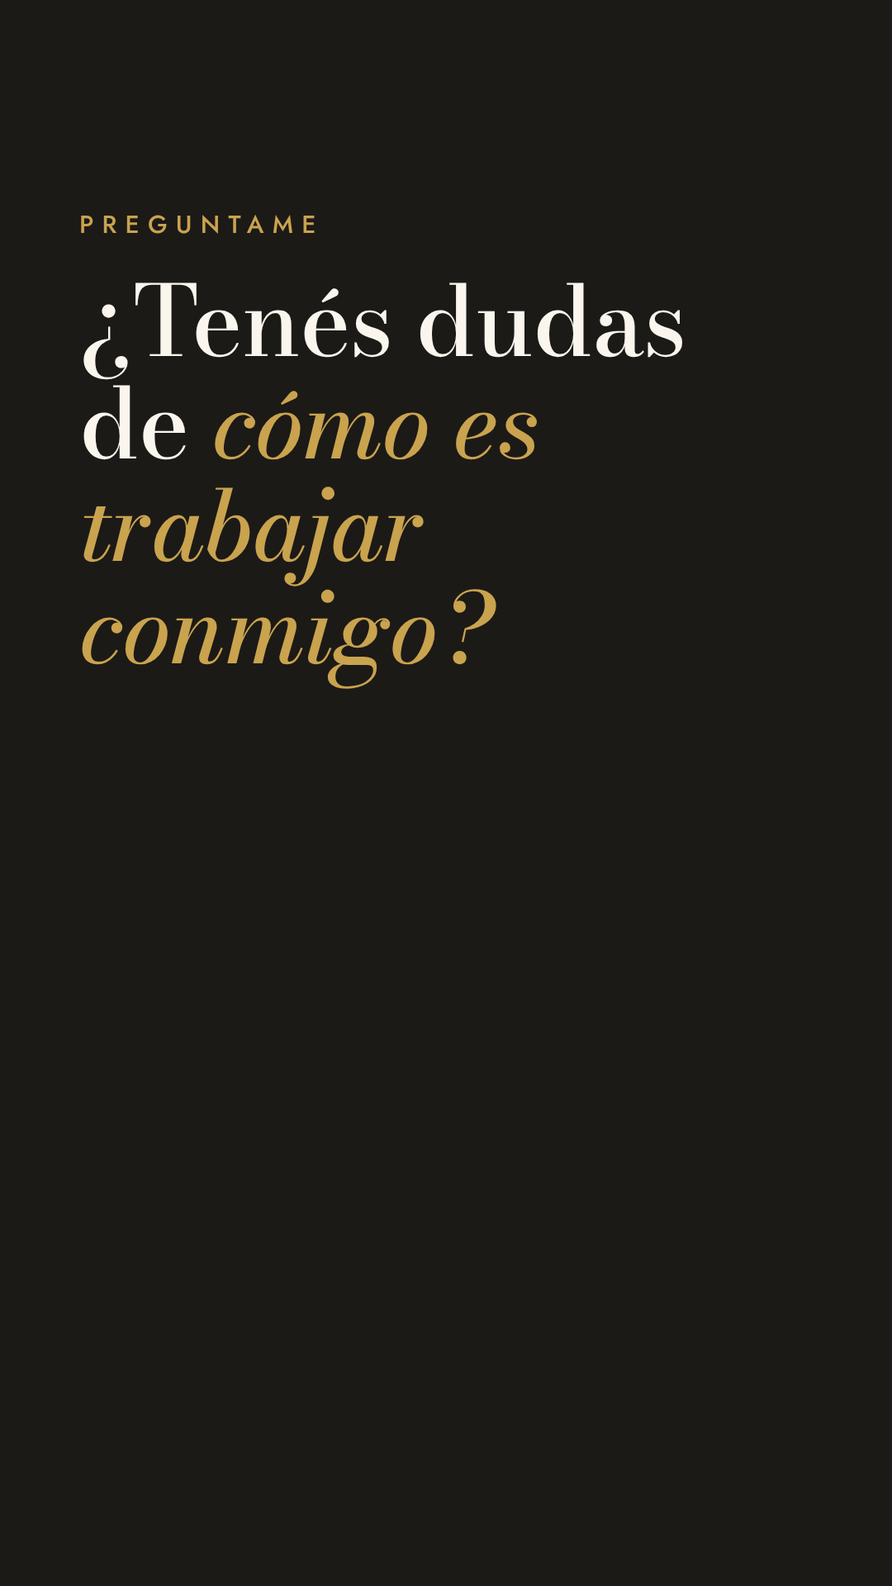
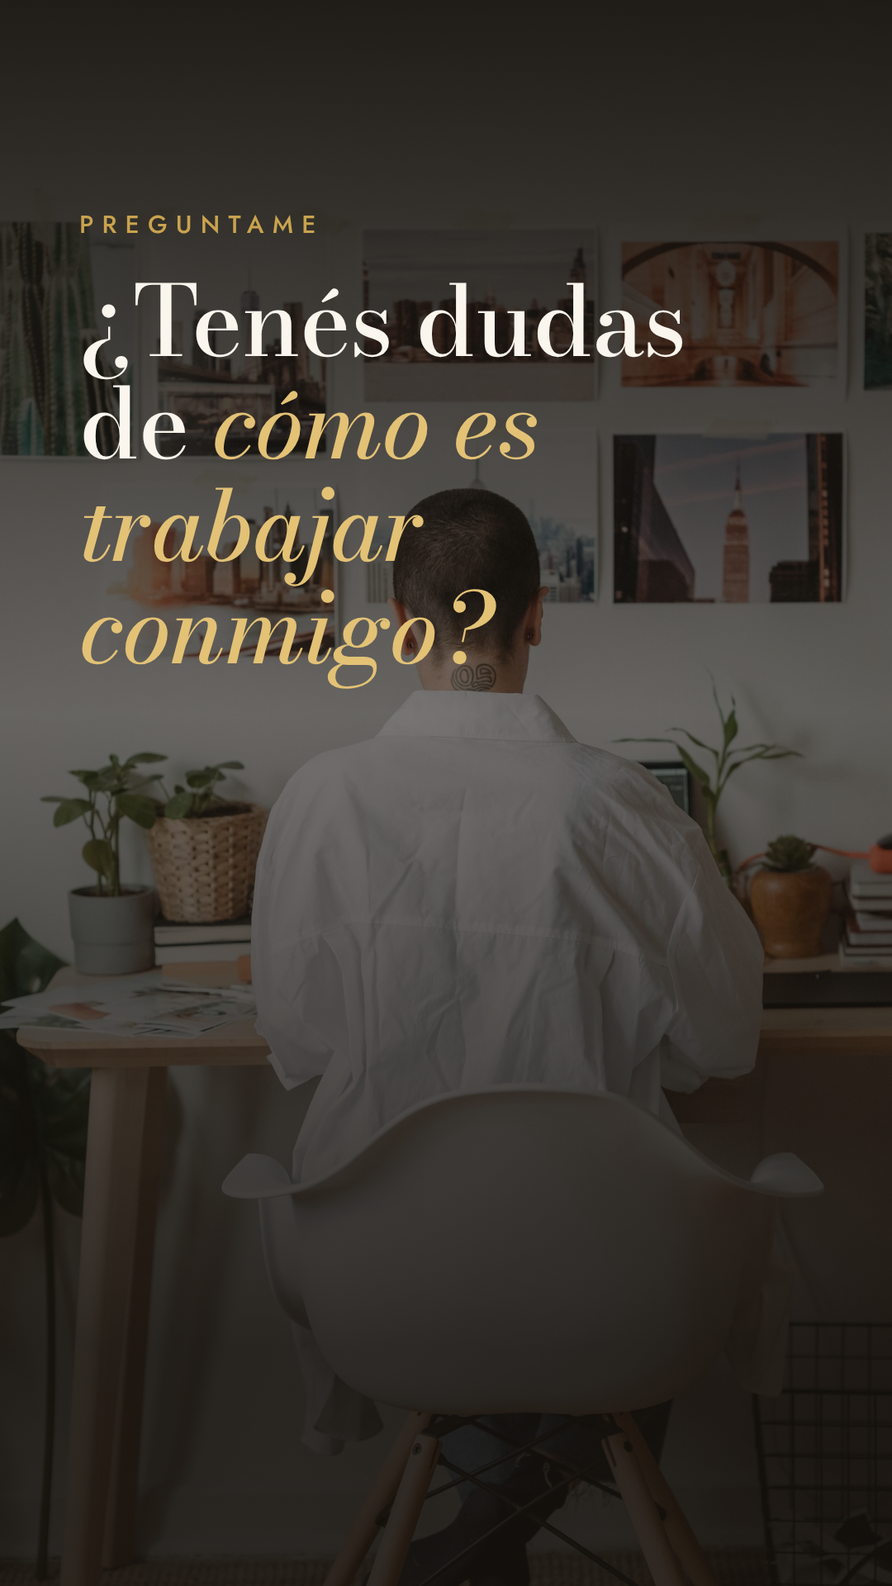
Historias de Gold Studio con fotos, mockups de la web y la app, y gráficos
Claude-Session: https://claude.ai/code/session_01MqSuY797qLSbTTpQyvUeTv

diff --git a/contenido/scripts/historias_destacadas.py b/contenido/scripts/historias_destacadas.py
@@ -54,76 +54,113 @@ for k in ICON:
     S[f'portada-marfil-{k}'] = cover(k, '#FAF6EE', '#C9A34E', '#B8923A')
     S[f'portada-negra-{k}'] = cover(k, '#1C1A17', '#C9A34E', '#C9A34E')
 
-# ---------- historias para cada destacada ----------
-SERV = [('Páginas web', 'Para que te encuentren y te escriban.'), ('Apps a medida', 'Turnos, clientes y archivos en un lugar.'),
-        ('Tiendas online', 'Tu catálogo vendiendo las 24 horas.'), ('Branding y logos', 'Una identidad que se recuerda.'),
-        ('Community manager', 'Tus redes lindas y constantes.')]
-S['servicios-1'] = st('m', f'''<div class="eb">Servicios</div><h1>Todo lo que tu marca necesita para <em>brillar.</em></h1>
-  <div class="list">{''.join(f'<div class="it"><i>{SP}</i><div><b>{a}</b><span>{b}</span></div></div>' for a, b in SERV)}</div>''')
-S['servicios-2'] = st('n', f'''<div class="eb">Contame</div><h1>¿Qué necesita <em>tu marca</em> hoy?</h1>
-  <p class="lead">Votá y te cuento por dónde empezar.</p>{hole(520)}''')
-S['trabajos-1'] = st('m', f'''<div class="eb">Trabajo destacado</div><h1>Una app a medida para un <em>consultorio de nutrición.</em></h1>
-  <div class="row" style="margin-top:70px;justify-content:center">{phone(APP, 470, -3)}</div>''')
+# ---------- fotos y capturas ----------
+EST = lambda i: b64(f'{SCR}/estudio/{i}.jpg', 'image/jpeg')       # Pexels: escritorio de diseñadora, sin caras
+F_TECLADO, F_TABLET, F_TABLET2, F_ESPALDA, F_PLANTAS, F_PARED = EST(7015029), EST(7015034), EST(7015038), EST(7015031), EST(7015024), EST(7015037)
+WEB_M, WEB_D = b64(f'{SCR}/web/movil.png', 'image/png'), b64(f'{SCR}/web/compu.png', 'image/png')
+CAFE7, BURG7, CAFE3, BURG3 = (b64(f'{REPO}/contenido/carruseles/feed-{n}/0{i}.png', 'image/png') for n, i in [('cafeteria', 7), ('hamburgueseria', 7), ('cafeteria', 3), ('hamburgueseria', 3)])
+CAFE_F = [b64(f'{SCR}/pexels/{i}.jpg', 'image/jpeg') for i in (4792689, 4792687, 4792692)]
+BURG_F = [b64(f'{SCR}/burger/{i}.jpg', 'image/jpeg') for i in ('prod_flota', 8477224, 'prod_bacon')]
+
+def bgphoto(img, pos='center', dark=.55, grad=True):
+    sh = (f'linear-gradient(rgba(20,16,12,{min(.92, dark+.2)}),rgba(20,16,12,{dark*.75}) 45%,rgba(20,16,12,{min(.92, dark+.15)}) 85%)' if grad
+          else f'linear-gradient(rgba(20,16,12,{dark}),rgba(20,16,12,{dark}))')
+    return f'<div style="position:absolute;inset:0;background:{sh},url({img}) {pos}/cover no-repeat;z-index:0"></div>'
+def ph(img, h, pos='center', r=28, extra=''):
+    return f'<div style="height:{h}px;border-radius:{r}px;background:url({img}) {pos}/cover no-repeat;{extra}"></div>'
+def laptop(img, w=760):
+    return (f'<div style="width:{w}px"><div style="background:#1b1b1b;border-radius:{w*.03:.0f}px {w*.03:.0f}px 0 0;padding:{w*.022:.0f}px">'
+            f'<div style="aspect-ratio:16/10;background:url({img}) top/cover"></div></div>'
+            f'<div style="height:{w*.035:.0f}px;background:linear-gradient(#cfcac2,#a9a49c);border-radius:0 0 {w*.04:.0f}px {w*.04:.0f}px;margin:0 -{w*.06:.0f}px"></div></div>')
+def phone2(img, w=300, rot=0, pos='top'):
+    return (f'<div style="width:{w}px;border-radius:{w*.14:.0f}px;background:#111;padding:{w*.035:.0f}px;transform:rotate({rot}deg);box-shadow:0 40px 80px -30px rgba(0,0,0,.55)">'
+            f'<div style="border-radius:{w*.11:.0f}px;aspect-ratio:9/19.5;background:url({img}) {pos}/cover"></div></div>')
+def sticker(txt, rot=-4):
+    return f'<div class="stk" style="transform:rotate({rot}deg)">{txt}</div>'
+
+SERV = [('Páginas web', 'Para que te encuentren y te escriban.', WEB_D, '70% top'), ('Apps a medida', 'Turnos, clientes y archivos en un lugar.', APP, 'top'),
+        ('Tiendas online', 'Tu catálogo vendiendo las 24 horas.', BURG_F[2], 'center'), ('Branding y logos', 'Una identidad que se recuerda.', CAFE3, 'center 60%'),
+        ('Community manager', 'Tus redes lindas y constantes.', CAFE7, 'center 70%')]
+S['servicios-1'] = st('m', f'''<div class="eb">Servicios</div><h1 style="font-size:100px">Todo lo que tu marca necesita para <em>brillar.</em></h1>
+  <div class="list2">{''.join(f'<div class="it2">{ph(img, 150, pos, 22, "width:150px;flex:none")}<div><b>{a}</b><span>{b}</span></div></div>' for a, b, img, pos in SERV)}</div>''')
+S['servicios-2'] = st('n', f'''{bgphoto(F_TABLET, "center 60%", .7)}<div class="z"><div class="eb">Contame</div><h1>¿Qué necesita <em>tu marca</em> hoy?</h1>
+  <p class="lead">Votá y te cuento por dónde empezar.</p></div>''')
+S['trabajos-1'] = st('m', f'''<div class="eb">Trabajo destacado</div><h1 style="font-size:100px">Una app a medida para un <em>consultorio de nutrición.</em></h1>
+  <div style="position:relative;margin-top:90px;height:820px">
+    <div style="position:absolute;left:-10px;top:60px">{laptop(PANEL, 820)}</div>
+    <div style="position:absolute;right:-20px;top:170px">{phone2(APP, 290, 4)}</div>
+    <div style="position:absolute;left:20px;top:600px">{sticker("Compu y celular", -5)}</div></div>''')
 S['trabajos-2'] = st('n', f'''<div class="eb">Qué hace</div><h1 style="font-size:96px">Cada paciente tiene <em>su cuenta.</em></h1>
-  <div class="chips">{''.join(f'<span>{t}</span>' for t in ['Planes en PDF', 'Recetarios', 'Seguimiento de peso', 'Turnos', 'Mensajes', 'Cuentas privadas'])}</div>
-  <div style="margin-top:60px">{card(PANEL, 880)}</div><p class="small">Las capturas usan datos inventados.</p>''')
-S['trabajos-3'] = st('g', f'''<div class="mid"><div class="spk">{SP}</div><h1>¿Querés ver <em>la demo?</em></h1>
-  <p class="lead">Tocá el link y probala vos.</p>{hole(220, w=640)}</div>''')
-PASOS = [('Charlamos', 'Me contás tu idea y tu negocio. Sin tecnicismos.'), ('Diseño', 'Te muestro una propuesta con tus colores y tu estilo.'),
-         ('Lo construyo', 'Te voy mostrando avances para que lo veas crecer.'), ('Lo lanzamos', 'Lo publico, te enseño a usarlo y te acompaño.')]
-S['proceso-1'] = st('m', f'''<div class="eb">Cómo trabajo</div><h1>Simple, cercano y <em>sin vueltas.</em></h1>
-  <div class="steps">{''.join(f'<div class="stp">{num(i+1)}<div><b>{a}</b><span>{b}</span></div></div>' for i, (a, b) in enumerate(PASOS))}</div>''')
-S['proceso-2'] = st('n', f'''<div class="eb">Preguntame</div><h1>¿Tenés dudas de <em>cómo es trabajar conmigo?</em></h1>{hole(560)}''')
+  <div style="display:flex;gap:40px;margin-top:70px;align-items:flex-start">{phone2(APP, 360, -3)}
+  <div class="feat">{''.join(f'<div><i>{SP}</i>{t}</div>' for t in ['Planes en PDF', 'Recetarios', 'Seguimiento de peso', 'Turnos', 'Mensajes', 'Cuentas privadas'])}</div></div>
+  <p class="small" style="margin-top:50px">Las capturas usan datos inventados.</p>''')
+S['trabajos-3'] = st('n', f'''{bgphoto(F_TECLADO, "center 40%", .62)}<div class="z mid"><div class="spk">{SP}</div><h1>¿Querés ver <em>la demo?</em></h1>
+  <p class="lead" style="color:#EFE7DA">Tocá el link y probala vos.</p>{hole(220, w=640)}</div>''')
+PASOS = [('Charlamos', 'Me contás tu idea y tu negocio. Sin tecnicismos.', F_TECLADO, 'center 60%'),
+         ('Diseño', 'Te muestro una propuesta con tus colores y tu estilo.', F_TABLET, 'center 65%'),
+         ('Lo construyo', 'Te voy mostrando avances para que lo veas crecer.', F_TABLET2, 'center 40%'),
+         ('Lo lanzamos', 'Lo publico, te enseño a usarlo y te acompaño.', WEB_D, '70% top')]
+S['proceso-1'] = st('m', f'''<div class="eb">Cómo trabajo</div><h1 style="font-size:100px">Simple, cercano y <em>sin vueltas.</em></h1>
+  <div class="tl">{''.join(f'<div class="tli">{ph(img, 200, pos, 24, "width:200px;flex:none")}<div><div class="n2">0{i+1}</div><b>{a}</b><span>{b}</span></div></div>' for i, (a, b, img, pos) in enumerate(PASOS))}</div>''')
+S['proceso-2'] = st('n', f'''{bgphoto(F_ESPALDA, "center 30%", .72)}<div class="z"><div class="eb">Preguntame</div><h1>¿Tenés dudas de <em>cómo es trabajar conmigo?</em></h1></div>''')
 PAQ = [('Página web', 'Para que tus clientes te encuentren, vean lo que hacés y te escriban.',
-        ['Diseño a medida con tu estilo', 'Servicios, trabajos y contacto', 'Botón directo a WhatsApp', 'Perfecta en el celular', 'La publico por vos']),
+        ['Diseño a medida con tu estilo', 'Servicios, trabajos y contacto', 'Botón directo a WhatsApp', 'Perfecta en el celular', 'La publico por vos'],
+        f'<div style="position:relative;height:560px"><div style="position:absolute;left:0;top:30px">{laptop(WEB_D, 700)}</div><div style="position:absolute;right:0;top:0">{phone2(WEB_M, 250, 5)}</div></div>'),
        ('Branding', 'Para que tu marca se reconozca y se vea linda en todos lados.',
-        ['Logo y sus variantes', 'Paleta y tipografías', 'Foto de perfil', 'Portadas de destacadas', 'Archivos listos para usar']),
+        ['Logo y sus variantes', 'Paleta y tipografías', 'Foto de perfil', 'Portadas de destacadas', 'Archivos listos para usar'],
+        f'<div style="display:flex;justify-content:center;gap:24px">{card(CAFE3, 400, -3)}{card(BURG3, 400, 3)}</div>'),
        ('Community manager', 'Para que tu Instagram sea lindo y constante, sin que te ocupe tiempo.',
-        ['Plan de contenido mensual', 'Posteos e historias', 'Textos para cada publicación', 'Feed y destacadas ordenados', 'Resumen de cómo le fue a tu cuenta'])]
-for i, (t, d, items) in enumerate(PAQ):
-    S[f'paquetes-{i+1}'] = st(['m', 'n', 'm'][i], f'''<div class="eb">Paquete {i+1} de 3</div><h1 style="font-size:116px"><em>{t}</em></h1>
-  <p class="lead" style="margin-top:30px">{d}</p>
-  <div class="box">{''.join(f'<div class="ck"><i>{SP}</i>{x}</div>' for x in items)}</div>{hole(200, w=640)}''')
-S['paquetes-4'] = st('g', f'''<div class="mid"><div class="eb" style="color:#1C1A17">Precio de lanzamiento</div>
-  <h1>Los primeros proyectos tienen <em>precio especial.</em></h1><p class="lead">Escribime y te armo un presupuesto según lo que necesites.</p>{hole(220, w=640)}</div>''')
-S['sobre-1'] = st('n', f'''<div class="mid"><div style="width:700px">{LOGO_W}</div>
-  <h1 style="font-size:96px;margin-top:80px">Cada marca tiene algo que la hace brillar. <em>Mi trabajo es que se note.</em></h1></div>''')
+        ['Plan de contenido mensual', 'Posteos e historias', 'Textos para cada publicación', 'Feed y destacadas ordenados', 'Resumen de cómo le fue a tu cuenta'],
+        f'<div style="display:flex;justify-content:center;gap:24px">{card(CAFE7, 400, -3)}{card(BURG7, 400, 3)}</div>')]
+for i, (t, d, items, vis) in enumerate(PAQ):
+    S[f'paquetes-{i+1}'] = st(['m', 'n', 'm'][i], f'''<div class="eb">Paquete {i+1} de 3</div><h1 style="font-size:110px"><em>{t}</em></h1>
+  <p class="lead" style="margin-top:24px;font-size:40px">{d}</p><div style="margin-top:50px">{vis}</div>
+  <div class="box" style="margin-top:50px;padding:40px 50px;gap:20px">{''.join(f'<div class="ck" style="font-size:38px"><i>{SP}</i>{x}</div>' for x in items)}</div>''')
+S['paquetes-4'] = st('g', f'''{bgphoto(F_TABLET2, "center 50%", .25, grad=False)}<div class="z mid" style="background:#C9A34E;border-radius:44px;padding:80px 60px;margin:auto 0">
+  <div class="eb" style="color:#1C1A17">Precio de lanzamiento</div><h1 style="font-size:104px">Los primeros proyectos tienen <em>precio especial.</em></h1>
+  <p class="lead" style="color:#3B3122">Escribime y te armo un presupuesto según lo que necesites.</p></div>''')
+S['sobre-1'] = st('n', f'''{bgphoto(F_ESPALDA, "center 35%", .78)}<div class="z mid"><div style="width:640px">{LOGO_W}</div>
+  <h1 style="font-size:92px;margin-top:80px">Cada marca tiene algo que la hace brillar. <em>Mi trabajo es que se note.</em></h1></div>''')
+VALS = [('A medida', 'Nada de plantillas iguales a todas.', F_TABLET), ('Cercana', 'Me escribís y te respondo yo.', F_TECLADO), ('Con detalle', 'Lo lindo también tiene que funcionar.', F_PLANTAS)]
 S['sobre-2'] = st('m', f'''<div class="eb">Cómo soy trabajando</div>
-  <div class="vals">{''.join(f'<div class="v"><i>{SP}</i><b>{a}</b><span>{b}</span></div>' for a, b in [('A medida', 'Nada de plantillas iguales a todas.'), ('Cercana', 'Me escribís y te respondo yo.'), ('Con detalle', 'Lo lindo también tiene que funcionar.')])}</div>''')
-S['ejemplos-1'] = st('n', f'''<div class="eb">Ejemplos de diseño</div><h1 style="font-size:104px">Así diseñaría <em>una cafetería.</em></h1>
-  <div class="duo">{card(CAFE[0], 440, -4)}{card(CAFE[1], 440, 4)}</div><p class="lead">Deslizá el carrusel en el feed.</p>{hole(160, w=600)}''')
-S['ejemplos-2'] = st('n', f'''<div class="eb">Ejemplos de diseño</div><h1 style="font-size:104px">Así diseñaría <em>una hamburguesería.</em></h1>
-  <div class="duo">{card(BURG[0], 440, -4)}{card(BURG[1], 440, 4)}</div><p class="lead">Deslizá el carrusel en el feed.</p>{hole(160, w=600)}''')
-S['contacto-1'] = st('m', f'''<div class="mid"><div class="spk">{SP}</div><h1>¿Arrancamos <em>tu proyecto?</em></h1>
-  <div class="ct">{''.join(f'<div><span>{a}</span><b>{b}</b></div>' for a, b in [('WhatsApp', '+54 9 11 7136-1309'), ('Instagram', '@goldstudio.ba'), ('Mail', 'goldstudio.ba@gmail.com')])}</div>
-  <p class="lead">Te respondo en menos de 24 horas.</p>{hole(200, w=640)}</div>''')
+  <div class="vals2">{''.join(f'<div>{ph(img, 300, "center", 28)}<b>{a}</b><span>{b}</span></div>' for a, b, img in VALS)}</div>''')
+for k, (nm, slides, fotos) in {'ejemplos-1': ('una cafetería', CAFE, CAFE_F), 'ejemplos-2': ('una hamburguesería', BURG, BURG_F)}.items():
+    S[k] = st('n', f'''<div class="eb">Ejemplos de diseño</div><h1 style="font-size:100px">Así diseñaría <em>{nm}.</em></h1>
+  <div class="strip">{''.join(ph(f, 260, 'center', 20) for f in fotos)}</div>
+  <div class="duo" style="margin-top:50px">{card(slides[0], 430, -4)}{card(slides[1], 430, 4)}</div><p class="lead" style="text-align:center">Deslizá el carrusel en el feed.</p>''')
+S['contacto-1'] = st('n', f'''{bgphoto(F_TECLADO, "center 60%", .7)}<div class="z mid"><div class="spk">{SP}</div><h1>¿Arrancamos <em>tu proyecto?</em></h1>
+  <div class="ct glass">{''.join(f'<div><span>{a}</span><b>{b}</b></div>' for a, b in [('WhatsApp', '+54 9 11 7136-1309'), ('Instagram', '@goldstudio.ba'), ('Mail', 'goldstudio.ba@gmail.com')])}</div>
+  <p class="lead" style="color:#EFE7DA">Te respondo en menos de 24 horas.</p>{hole(180, w=640)}</div>''')
 
 # ---------- historias creativas ----------
 PAL = lambda cs: '<div class="pal">' + ''.join(f'<i style="background:{c}"></i>' for c in cs) + '</div>'
-S['creativa-esto-o-aquello'] = st('m', f'''<div class="eb">Esto o aquello</div><h1 style="font-size:104px">¿Con cuál paleta te <em>quedás?</em></h1>
-  <div class="vs"><div><b>A</b>{PAL(['#2A1A14', '#8A3B2A', '#B4743F', '#E6CFA8', '#EFE7DA'])}<span>Cálida y tranquila</span></div>
-  <div><b>B</b>{PAL(['#1C1714', '#7A1F1F', '#C2502A', '#E0A526', '#F3ECE2'])}<span>Intensa y con fuego</span></div></div>{hole(300)}''')
+S['creativa-esto-o-aquello'] = st('m', f'''<div class="eb">Esto o aquello</div><h1 style="font-size:100px">¿Con cuál estilo te <em>quedás?</em></h1>
+  <div class="vs2"><div><b>A</b><div class="mini">{''.join(ph(f, 230, 'center', 16) for f in CAFE_F)}</div>{PAL(['#2A1A14', '#8A3B2A', '#B4743F', '#E6CFA8', '#EFE7DA'])}<span>Cálido y tranquilo</span></div>
+  <div><b>B</b><div class="mini">{''.join(ph(f, 230, 'center', 16) for f in BURG_F)}</div>{PAL(['#1C1714', '#7A1F1F', '#C2502A', '#E0A526', '#F3ECE2'])}<span>Intenso y con fuego</span></div></div>''')
 FONTS = [('A', "font-family:B;font-style:italic", 'Café de especialidad'), ('B', "font-family:XA;text-transform:uppercase", 'Café de especialidad'), ('C', "font-family:J;font-weight:300;letter-spacing:.06em", 'Café de especialidad')]
-S['creativa-quiz-letra'] = st('n', f'''<div class="eb">Quiz de diseño</div><h1 style="font-size:100px">¿Qué letra usarías para una <em>cafetería cálida?</em></h1>
-  <div class="opts">{''.join(f'<div><b>{a}</b><span style="{s}">{t}</span></div>' for a, s, t in FONTS)}</div>{hole(380)}''')
+S['creativa-quiz-letra'] = st('n', f'''{bgphoto(CAFE_F[0], "center", .72, grad=False)}<div class="z"><div class="eb">Quiz de diseño</div><h1 style="font-size:96px">¿Qué letra usarías para una <em>cafetería cálida?</em></h1>
+  <div class="opts">{''.join(f'<div><b>{a}</b><span style="{s}">{t}</span></div>' for a, s, t in FONTS)}</div></div>''')
 S['creativa-quiz-respuesta'] = st('m', f'''<div class="eb">Respuesta</div><h1 style="font-size:104px">La <em>A</em> es la más cálida.</h1>
   <p class="lead">Una letra con serifa y en itálica se siente artesanal y cercana. La B grita (ideal para hamburguesas) y la C es más fría y moderna.</p>
   <div style="margin-top:70px;align-self:center">{card(CAFE[1], 560, -2)}</div>''')
+PSI = ['#2F4A6D', '#A9BCD0', '#EEF2F6', '#C9A34E']
 S['creativa-adivina'] = st('g', f'''<div class="eb" style="color:#1C1A17">Adiviná el rubro</div><h1>Esta paleta, ¿de qué <em>negocio</em> es?</h1>
-  {PAL(['#2F4A6D', '#A9BCD0', '#EEF2F6', '#C9A34E']).replace('class="pal"', 'class="pal big"')}<p class="lead" style="color:#3B3122">Respuesta en la próxima historia.</p>{hole(360)}''')
-S['creativa-adivina-respuesta'] = st('m', f'''<div class="eb">Respuesta</div><h1>Un <em>consultorio de psicología.</em></h1>
-  <p class="lead">El azul da confianza y calma, y el dorado le suma un toque cálido y profesional. Los colores también comunican.</p>
-  {PAL(['#2F4A6D', '#A9BCD0', '#EEF2F6', '#C9A34E']).replace('class="pal"', 'class="pal big"')}''')
+  <div class="sw">{''.join(f'<div><i style="background:{c}"></i><span>{c}</span></div>' for c in PSI)}</div><p class="lead" style="color:#3B3122">Respuesta en la próxima historia.</p>''')
+S['creativa-adivina-respuesta'] = st('m', f'''<div class="eb">Respuesta</div><h1 style="font-size:104px">Un <em>consultorio de psicología.</em></h1>
+  <p class="lead">El azul da confianza y calma, y el dorado le suma un toque cálido y profesional.</p>
+  <div class="brand"><div class="bc" style="background:#2F4A6D;color:#EEF2F6"><span style="font-family:J;letter-spacing:.3em;font-size:22px">CONSULTORIO</span><b style="font-family:B;font-style:italic;font-size:88px;font-weight:500">Clara</b><span style="font-size:24px;color:#C9A34E;letter-spacing:.3em">PSICOLOGÍA</span></div>
+  <div class="bp" style="background:#EEF2F6;color:#2F4A6D"><b style="font-family:B;font-size:46px;font-weight:500;line-height:1.1">Hablar también es <i style="color:#C9A34E">cuidarte.</i></b></div>
+  {PAL(PSI)}</div><p class="small">Marca inventada para el ejemplo.</p>''')
 S['creativa-detras-de-escena'] = st('n', f'''<div class="eb">Detrás de escena</div><h1 style="font-size:100px">Así nació <em>Doña Rulos.</em></h1>
   <div class="ba"><div><span>Primer boceto</span>{card(SENORA0, 400, -3)}</div><div><span>Versión final</span>{card(SENORA, 400, 3)}</div></div>
-  <p class="lead">Probé poses hasta que la hamburguesa quedó como un trofeo.</p>{hole(160, w=600)}''')
-S['creativa-completa'] = st('m', f'''<div class="eb">Completá la frase</div><h1>Si mi marca fuera una persona, <em>sería…</em></h1>{hole(520)}''')
-S['creativa-slider'] = st('n', f'''<div class="mid"><div class="spk">{SP}</div><h1>¿Cuánto te gusta <em>tu feed</em> hoy?</h1>
-  <p class="lead">Con sinceridad, nadie te juzga.</p>{hole(240, w=760)}</div>''')
-S['creativa-personaje'] = st('m', f'''<div class="eb">Tu marca con personaje</div><h1 style="font-size:100px">¿Te imaginás a tu marca con <em>un personaje así?</em></h1>
-  <div class="duo">{card(NUTRIA, 420, -4)}{card(SENORA, 420, 4)}</div>{hole(300)}''')
-S['creativa-cuenta-regresiva'] = st('g', f'''<div class="mid"><div class="spk" style="color:#1C1A17">{SP}</div><div class="eb" style="color:#1C1A17">Se viene algo nuevo</div>
-  <h1>Activá el <em>recordatorio.</em></h1>{hole(260, w=760)}</div>''')
+  <div style="display:flex;justify-content:center;margin-top:40px">{card(BURG[1], 360, -2)}</div>''')
+S['creativa-completa'] = st('m', f'''{bgphoto(F_PLANTAS, "center", .0, grad=False)}<div class="z" style="background:#FAF6EE;border-radius:40px;padding:60px"><div class="eb">Completá la frase</div><h1 style="font-size:100px">Si mi marca fuera una persona, <em>sería…</em></h1></div>''')
+S['creativa-slider'] = st('n', f'''{bgphoto(F_PARED, "center 30%", .7)}<div class="z mid"><div class="spk">{SP}</div><h1>¿Cuánto te gusta <em>tu feed</em> hoy?</h1>
+  <p class="lead" style="color:#EFE7DA">Con sinceridad, nadie te juzga.</p>{hole(240, w=760)}</div>''')
+S['creativa-personaje'] = st('m', f'''<div class="eb">Tu marca con personaje</div><h1 style="font-size:96px">¿Te imaginás a tu marca con <em>un personaje así?</em></h1>
+  <div class="duo">{card(CAFE[1], 430, -4)}{card(BURG[1], 430, 4)}</div>''')
+S['creativa-cuenta-regresiva'] = st('g', f'''{bgphoto(F_TABLET2, "center 45%", .15, grad=False)}<div class="z mid" style="background:#C9A34E;border-radius:44px;padding:80px 50px;margin:auto 0"><div class="spk" style="color:#1C1A17">{SP}</div><div class="eb" style="color:#1C1A17">Se viene algo nuevo</div>
+  <h1>Activá el <em>recordatorio.</em></h1>{hole(240, w=700)}</div>''')
 
 CSS = f'''
 @font-face{{font-family:B;src:url({F}bodoni-moda/files/bodoni-moda-latin-500-normal.woff2);font-weight:500}}
@@ -158,6 +195,22 @@ h1{{font-family:B;font-weight:500;font-size:118px;line-height:1.05;margin:0;lett
 .vals{{display:flex;flex-direction:column;gap:70px;margin-top:40px;flex:1;justify-content:center}}
 .v i{{display:block;width:70px;height:70px;color:var(--g);margin-bottom:24px}} .v b{{display:block;font-family:B;font-weight:500;font-size:96px;line-height:1}} .v span{{font-size:44px;color:var(--sub);font-weight:300}}
 .duo{{display:flex;justify-content:center;gap:10px;margin-top:70px}}
+.z{{position:relative;z-index:1}} .n .z h1 em{{color:#E3C276}} .st > .z:not(.mid){{display:flex;flex-direction:column}}
+.list2{{margin-top:60px;display:flex;flex-direction:column;gap:30px}} .it2{{display:flex;gap:34px;align-items:center}}
+.it2 b{{display:block;font-family:B;font-weight:500;font-size:58px;line-height:1.1}} .it2 span{{font-size:34px;color:var(--sub);font-weight:300}}
+.stk{{background:#C9A34E;color:#1C1A17;font-size:34px;font-weight:500;padding:18px 34px;border-radius:999px;box-shadow:0 20px 40px -20px rgba(0,0,0,.5)}}
+.feat{{display:flex;flex-direction:column;gap:30px;padding-top:30px}} .feat div{{display:flex;gap:20px;align-items:center;font-size:40px}} .feat i{{width:32px;height:32px;color:var(--g);flex:none}}
+.tl{{margin-top:60px;display:flex;flex-direction:column;gap:34px}} .tli{{display:flex;gap:36px;align-items:center}}
+.n2{{font-family:B;font-style:italic;font-size:44px;color:var(--g)}} .tli b{{display:block;font-family:B;font-weight:500;font-size:58px;line-height:1.05}} .tli span{{font-size:34px;color:var(--sub);font-weight:300;line-height:1.3}}
+.vals2{{display:flex;flex-direction:column;gap:44px;margin-top:20px}} .vals2 > div{{display:grid;grid-template-columns:330px 1fr;grid-template-rows:auto auto;column-gap:40px;align-items:end}}
+.vals2 > div > div{{grid-row:span 2}} .vals2 b{{font-family:B;font-weight:500;font-size:76px;line-height:1;align-self:end}} .vals2 span{{font-size:38px;color:var(--sub);font-weight:300;align-self:start;margin-top:14px}}
+.strip{{display:grid;grid-template-columns:repeat(3,1fr);gap:14px;margin-top:60px}}
+.glass{{background:rgba(250,246,238,.12);border:1px solid rgba(250,246,238,.3);border-radius:36px;padding:50px 60px}}
+.vs2{{display:flex;flex-direction:column;gap:50px;margin-top:60px}} .vs2 b{{font-family:B;font-style:italic;font-size:76px;color:var(--g)}} .vs2 span{{font-size:36px;color:var(--sub)}}
+.mini{{display:grid;grid-template-columns:repeat(3,1fr);gap:12px;margin:10px 0}} .vs2 .pal{{height:70px;border-radius:16px;margin:12px 0}}
+.sw{{display:grid;grid-template-columns:repeat(2,1fr);gap:24px;margin-top:70px}} .sw i{{display:block;height:280px;border-radius:28px;box-shadow:inset 0 0 0 3px rgba(28,26,23,.25)}} .sw span{{display:block;margin-top:12px;font-size:30px;letter-spacing:.12em;color:#3B3122}}
+.brand{{display:grid;grid-template-columns:1.1fr 1fr;gap:20px;margin-top:60px}} .bc{{border-radius:28px;height:380px;display:flex;flex-direction:column;align-items:center;justify-content:center;gap:6px}}
+.bp{{border-radius:28px;height:380px;padding:40px;box-sizing:border-box;display:flex;align-items:center}} .brand .pal{{grid-column:span 2;height:110px;margin:0}}
 .ct{{display:flex;flex-direction:column;gap:34px;margin-top:70px}} .ct span{{display:block;font-size:28px;letter-spacing:.3em;text-transform:uppercase;color:var(--em)}} .ct b{{font-size:52px;font-weight:400}}
 .pal{{display:flex;height:150px;border-radius:24px;overflow:hidden;margin:20px 0}} .pal i{{flex:1}} .pal.big{{height:260px;margin-top:80px}}
 .vs{{display:flex;flex-direction:column;gap:60px;margin-top:80px}} .vs b{{font-family:B;font-style:italic;font-size:80px;color:var(--g)}} .vs span{{font-size:38px;color:var(--sub)}}

diff --git a/contenido/historias/LEEME.md b/contenido/historias/LEEME.md
@@ -24,3 +24,5 @@ Orden sugerido: Servicios · Trabajos · Proceso · Paquetes · Ejemplos · Sobr
 - `cuenta-regresiva`: sticker de cuenta regresiva para tu próximo lanzamiento.
 
 Los espacios vacíos son para los stickers. Los emojis los ponés vos.
+
+Fotos de escritorio: Pexels (sesión 7015xxx, sin caras), en `scratch/estudio/`. Capturas de la web en `scratch/web/`.
